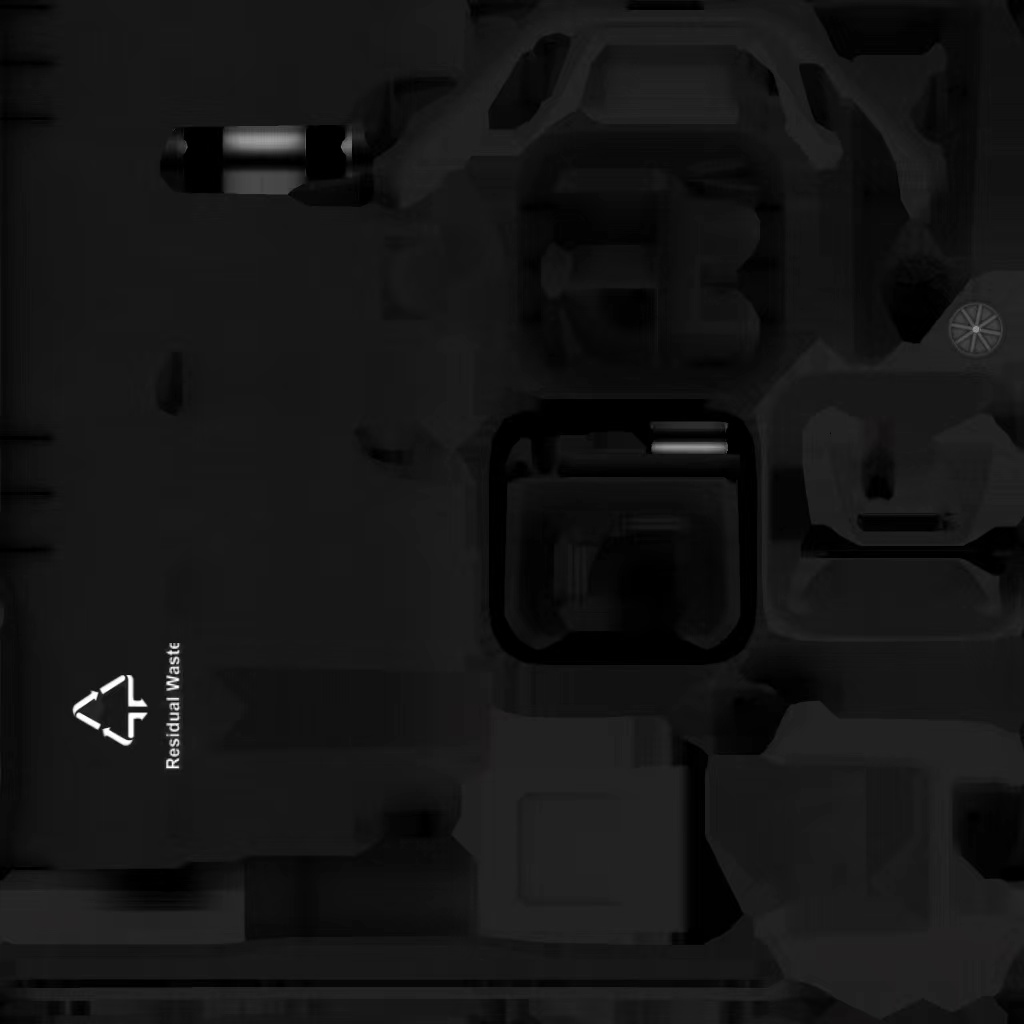
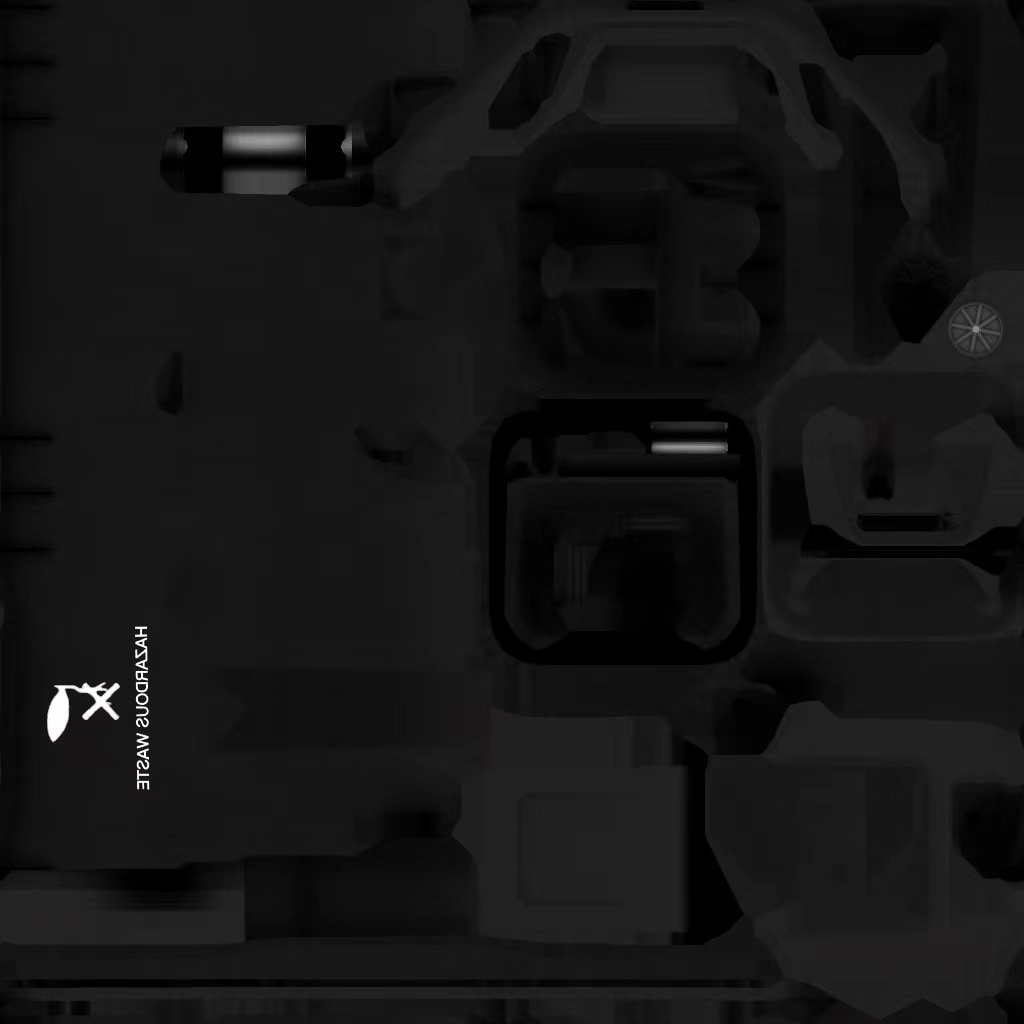
🩹 修改前端垃圾桶标志

Changed region(s): [[0.0312, 0.625, 0.1875, 0.7812]]

diff --git a/HomeToReturnToSystem/src/utils/request.js b/HomeToReturnToSystem/src/utils/request.js
@@ -2,7 +2,7 @@ import axios from "axios";
 // import store from "@/store";
 // import router from "@/router";
 
-export const baseURL = "http://localhost:8080";
+export const baseURL = "http://124.221.170.20:8080";
 
 // 发送携带token的请求
 const instanceWithToken = axios.create({ baseURL });
